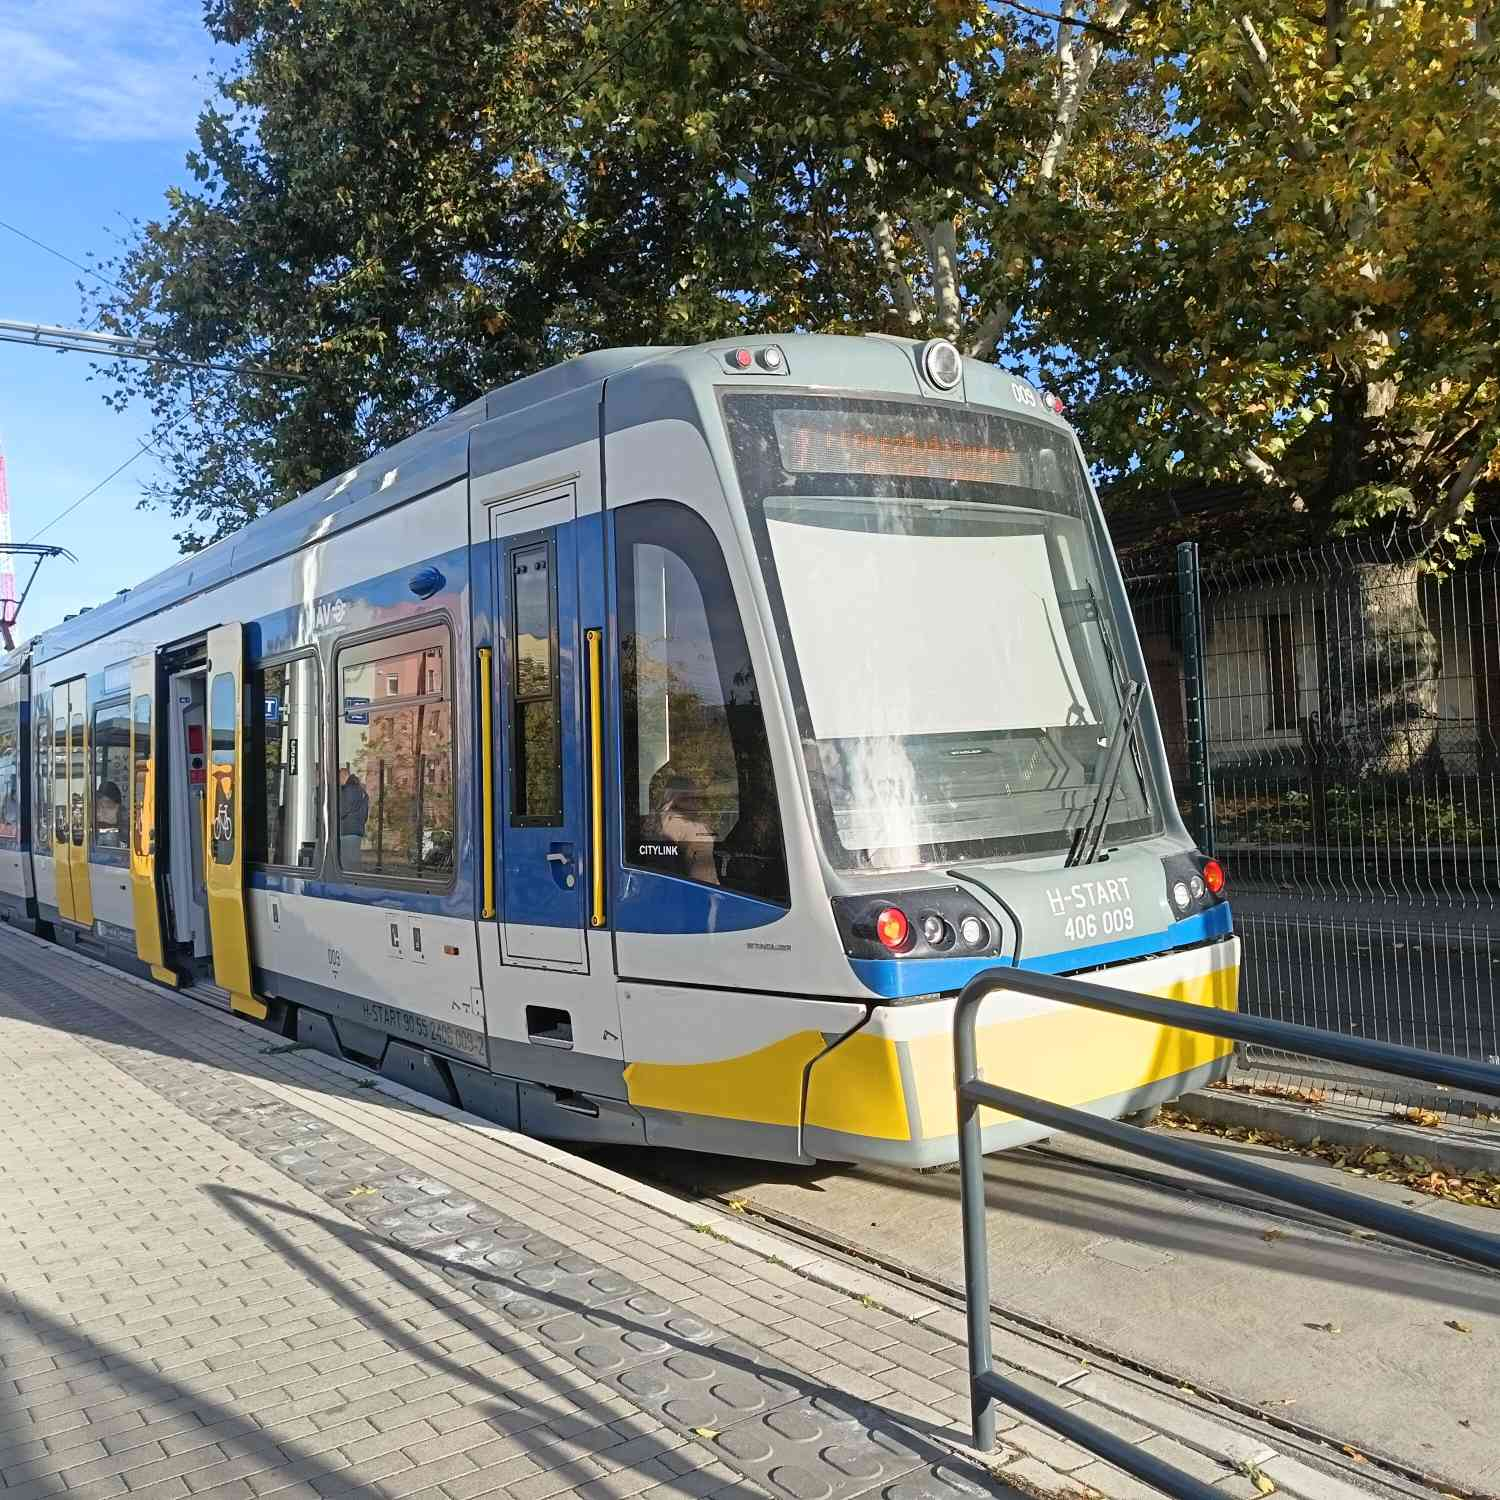
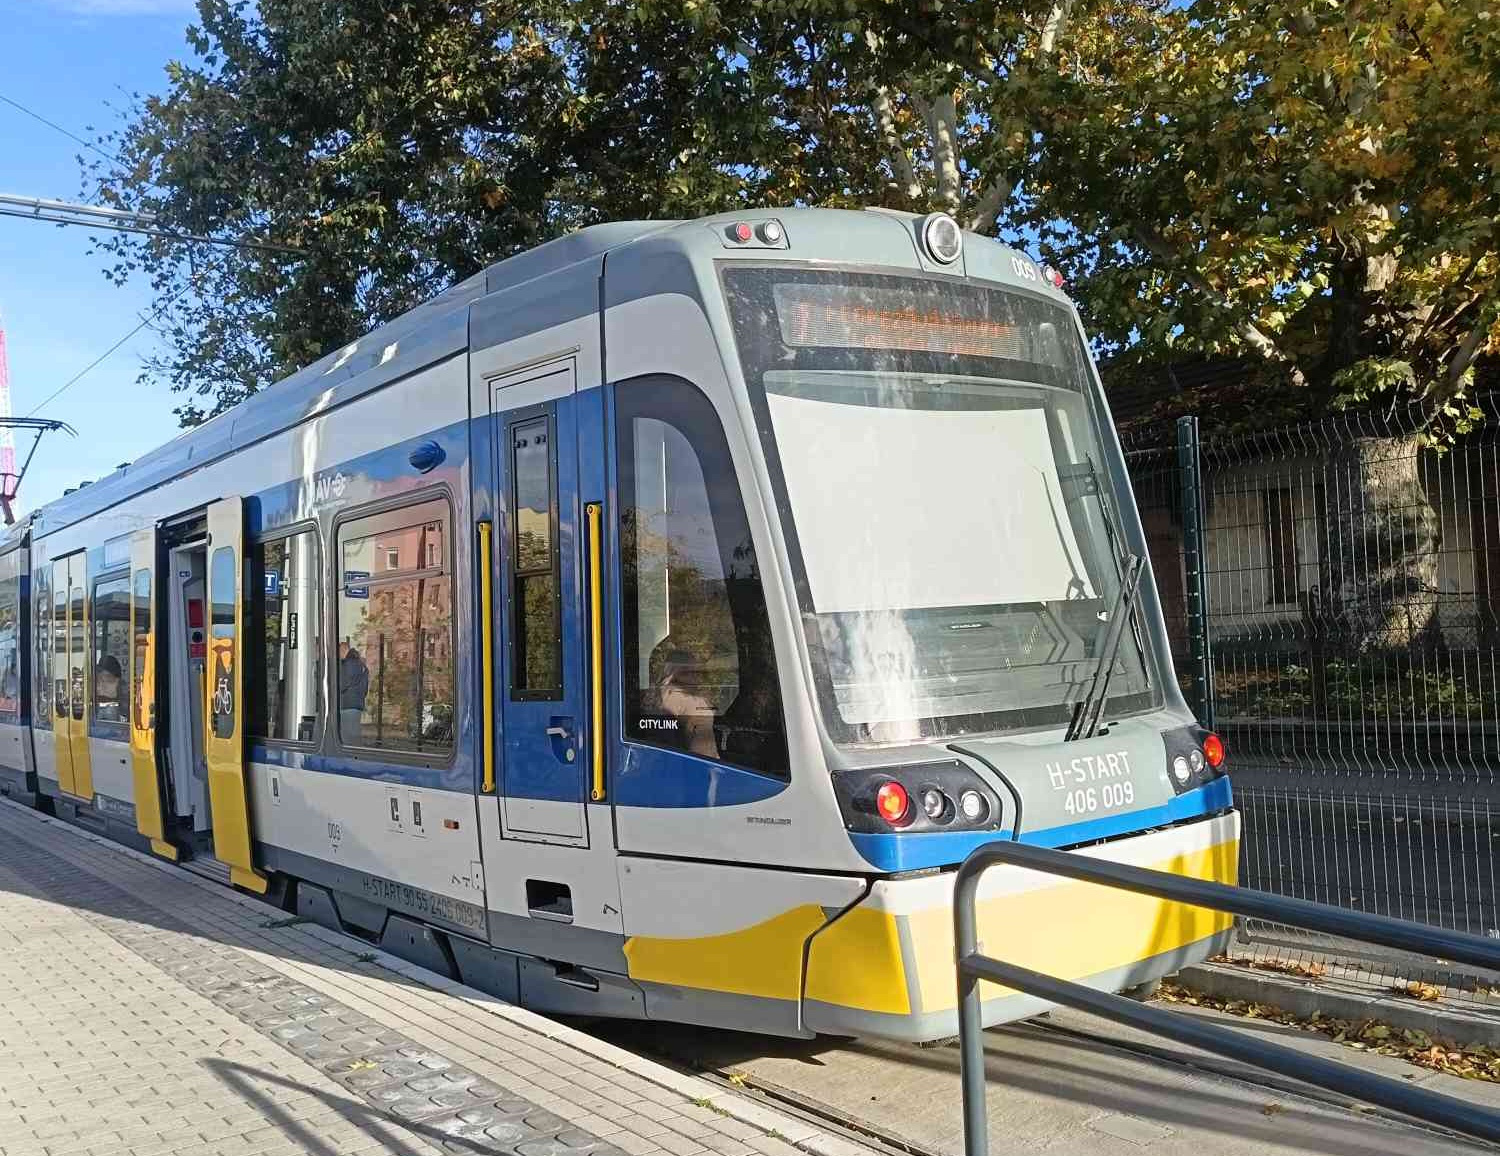
a

diff --git a/woof/városszociológiaprojekt.html b/woof/városszociológiaprojekt.html
@@ -121,7 +121,7 @@
         }
         .video-player {
             width: 100%;
-            height: 100%;
+            height: 400px;
             object-fit: cover;
             display: block;
         }